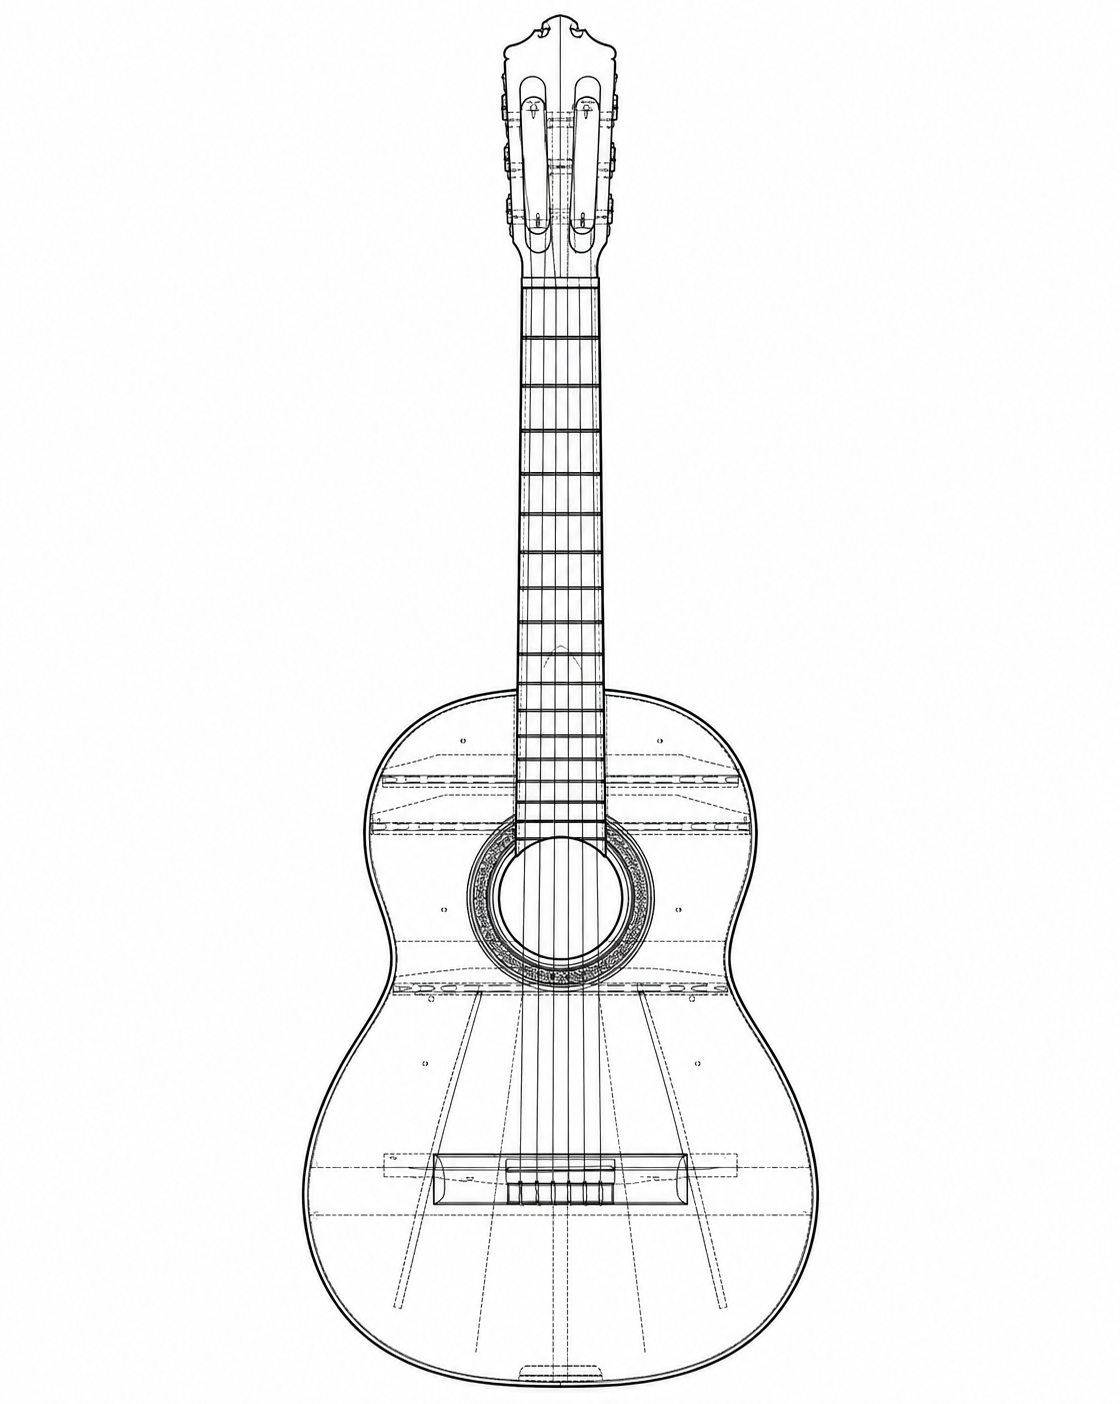
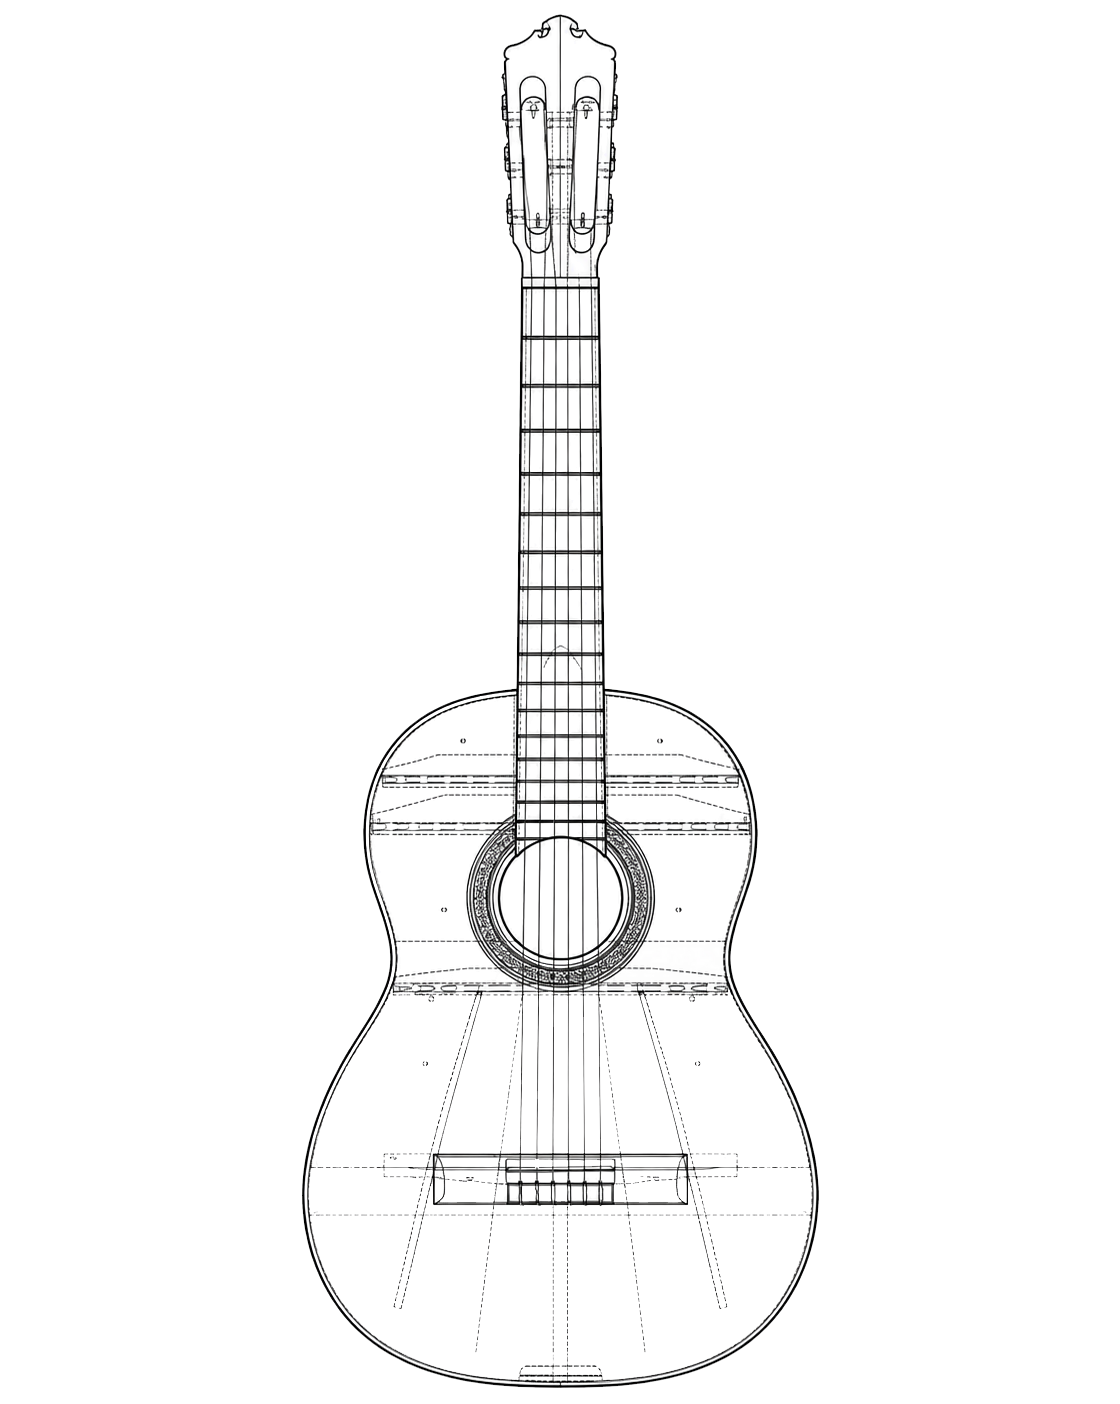
m

diff --git a/js/main.js b/js/main.js
@@ -298,47 +298,7 @@ document.addEventListener('DOMContentLoaded', () => {
   function createGrainAndSpotlight(section) {
     const reduceMotion = window.matchMedia('(prefers-reduced-motion: reduce)').matches;
 
-    // Grano
-    if (!reduceMotion) {
-      const canvas = document.createElement('canvas');
-      canvas.className = 'dark-static-canvas';
-      canvas.setAttribute('aria-hidden', 'true');
-      section.appendChild(canvas);
-      const ctx = canvas.getContext('2d');
-      const resize = () => {
-        canvas.width = Math.ceil(section.offsetWidth / 4);
-        canvas.height = Math.ceil(section.offsetHeight / 4);
-      };
-      resize();
-      const draw = () => {
-        const w = canvas.width, h = canvas.height;
-        if (!w || !h) return;
-        const imgData = ctx.createImageData(w, h);
-        const d = imgData.data;
-        for (let i = 0; i < d.length; i += 4) {
-          const v = Math.random() * 255 | 0;
-          d[i] = d[i+1] = d[i+2] = v; d[i+3] = 255;
-        }
-        ctx.putImageData(imgData, 0, 0);
-      };
-      let isVisible = false, frame = 0, animId = null;
-      const loop = () => {
-        if (isVisible) {
-          frame++;
-          if (frame % 4 === 0) draw(); // redibuja cada pocos frames: grano fijo, no parpadeante
-          animId = requestAnimationFrame(loop);
-        }
-      };
-      const obs = new IntersectionObserver((entries) => {
-        entries.forEach(e => {
-          isVisible = e.isIntersecting;
-          if (isVisible) { resize(); draw(); animId = requestAnimationFrame(loop); }
-          else if (animId) cancelAnimationFrame(animId);
-        });
-      }, { threshold: 0.05 });
-      obs.observe(section);
-      window.addEventListener('resize', () => { if (isVisible) resize(); }, { passive: true });
-    }
+  
 
     // Luz difuminada que sigue el mouse
     const spot = document.createElement('div');

diff --git a/index.html b/index.html
@@ -600,17 +600,13 @@
         Cada instrumento que sale del taller lleva el tiempo, el criterio y el oído de alguien que conoce la madera desde adentro.
       </p>
     </div>
-    <div class="video-section__player">
-      <!-- Video: actúa como póster fotográfico. Click reproduce sin botón visible. -->
+  <div class="video-section__player">
       <div class="video-wrapper" role="button" tabindex="0" aria-label="Reproducir video del taller">
-        <video
-          src="assets/images/video_thumb.mp4"
-          poster="assets/images/video_thumb.jpg"
-          loop muted playsinline preload="none">
-        </video>
-        <!-- Fallback imagen si no hay video -->
-        <img class="video-thumb" src="assets/images/video_thumb.jpg"
-             alt="Video del taller" loading="lazy" />
+        <video src="assets/images/video_thumb.mp4" poster="assets/images/video_thumb.jpg" loop muted playsinline preload="none"></video>
+        <img class="video-thumb" src="assets/images/video_thumb.jpg" alt="Video del taller" style="display:none" loading="lazy" />
+      </div>
+    </div>
+  </section>
       </div>
     </div>
   </section>